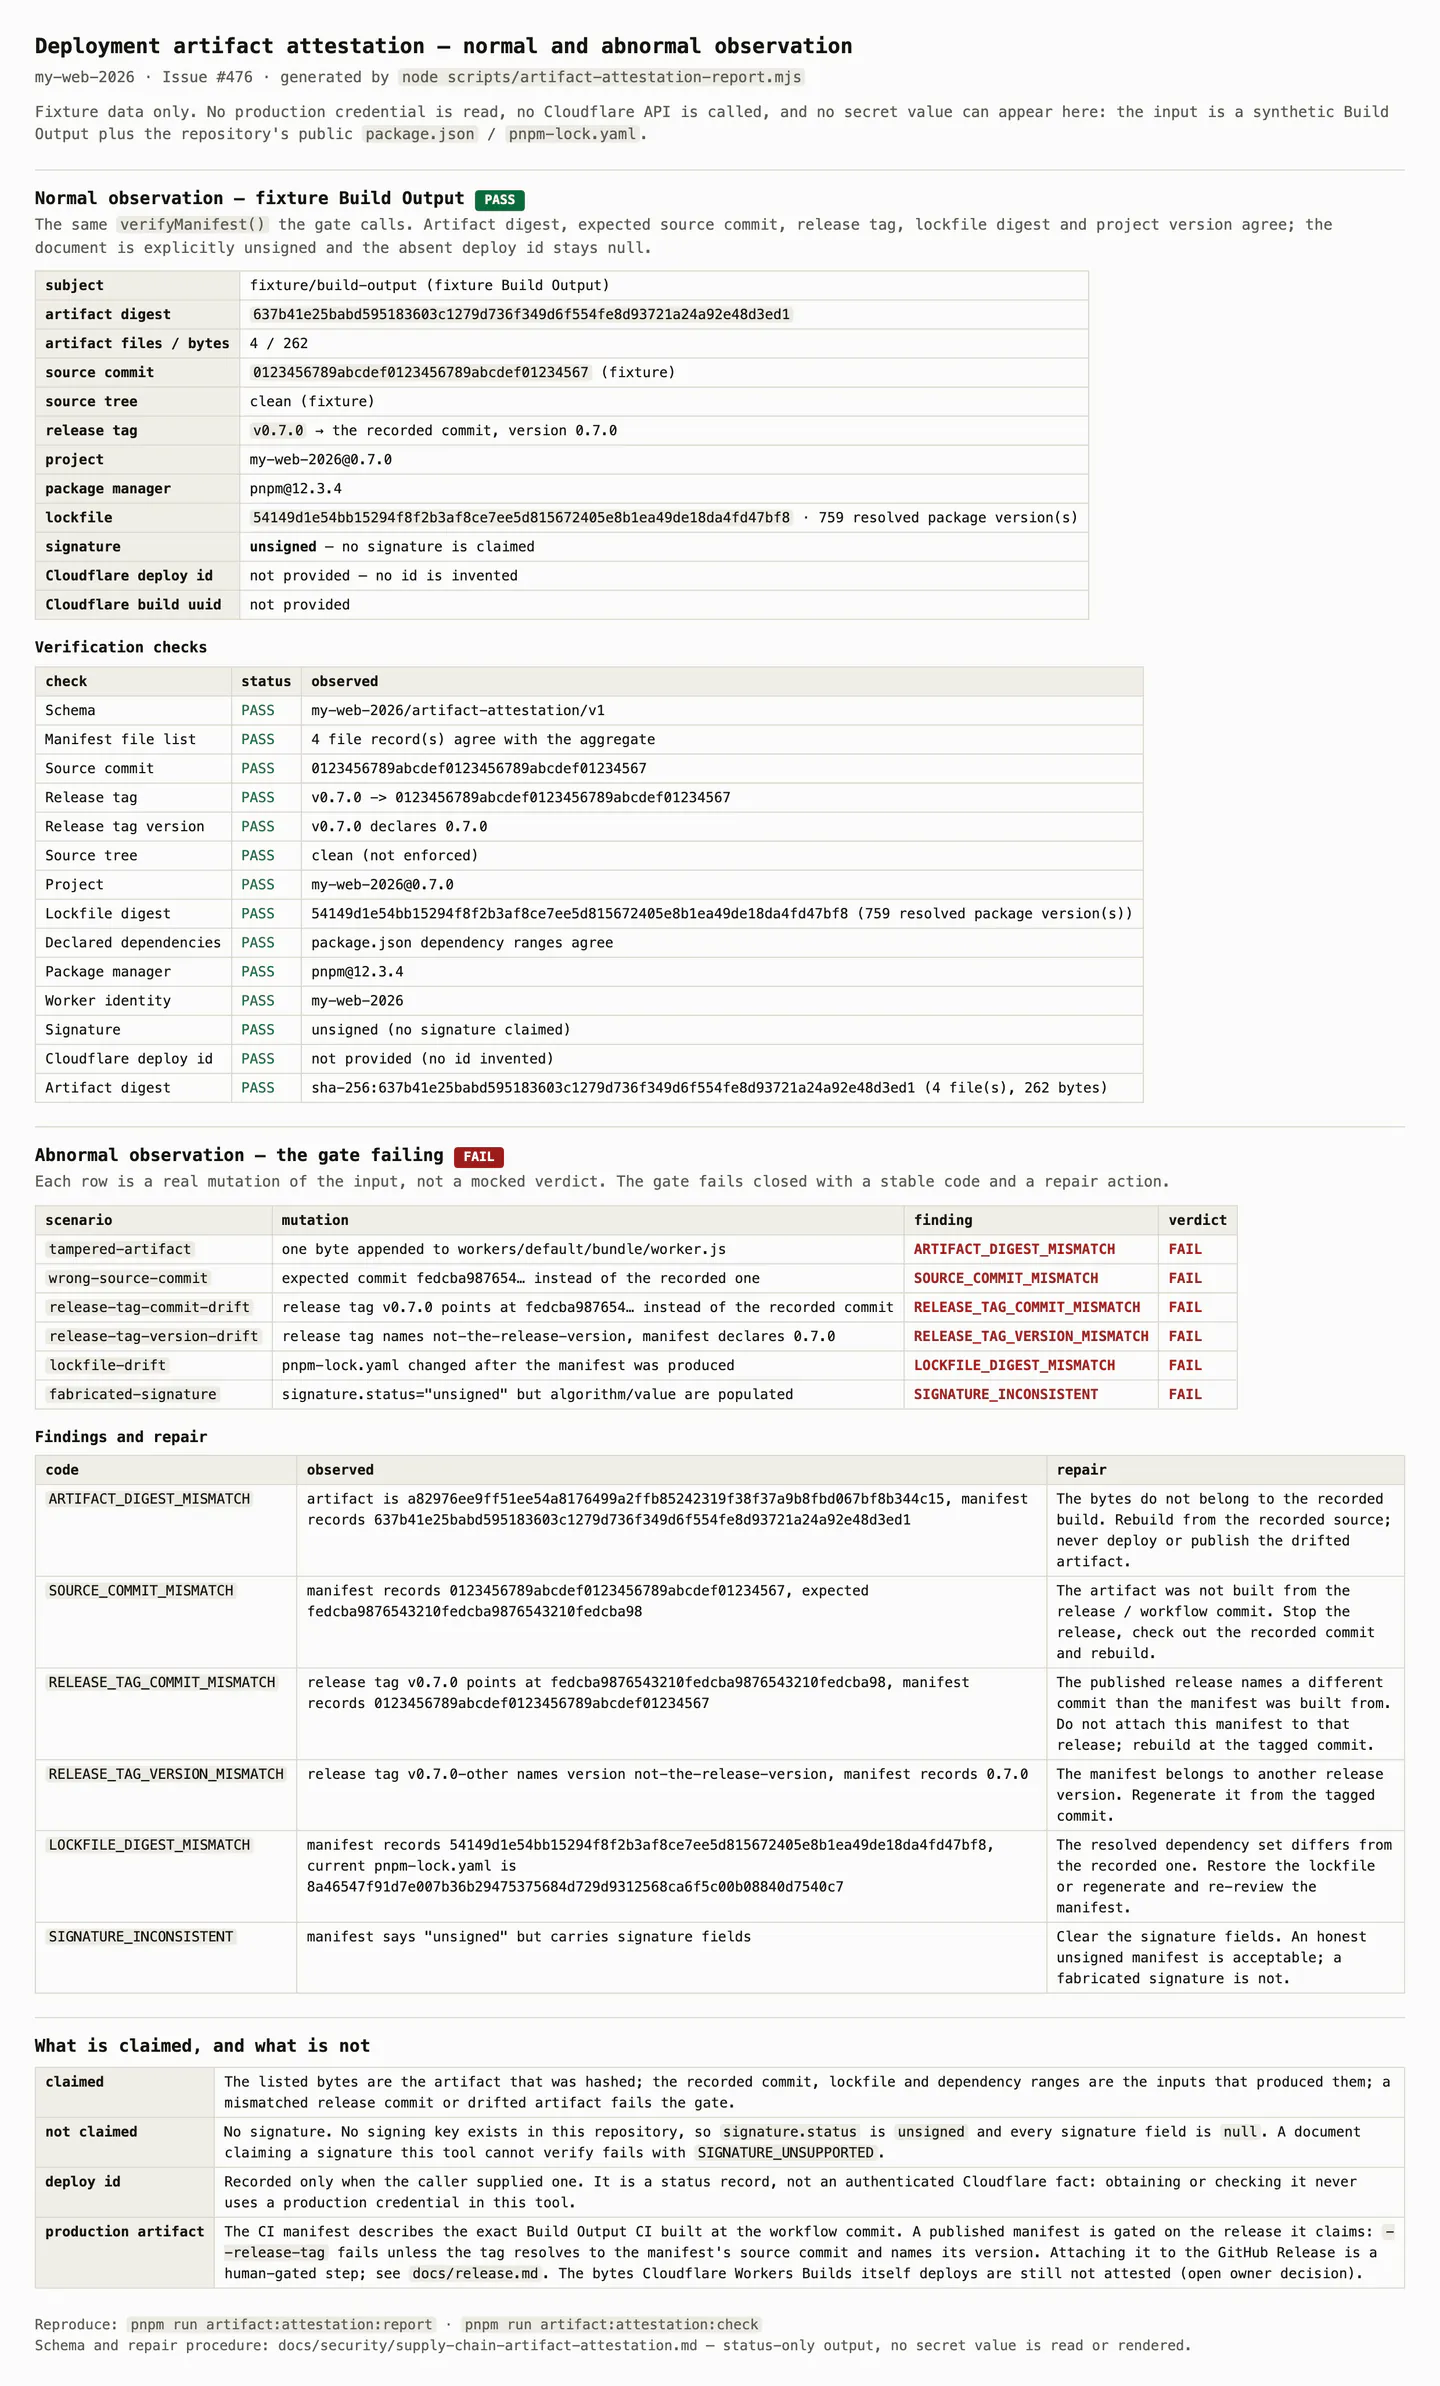
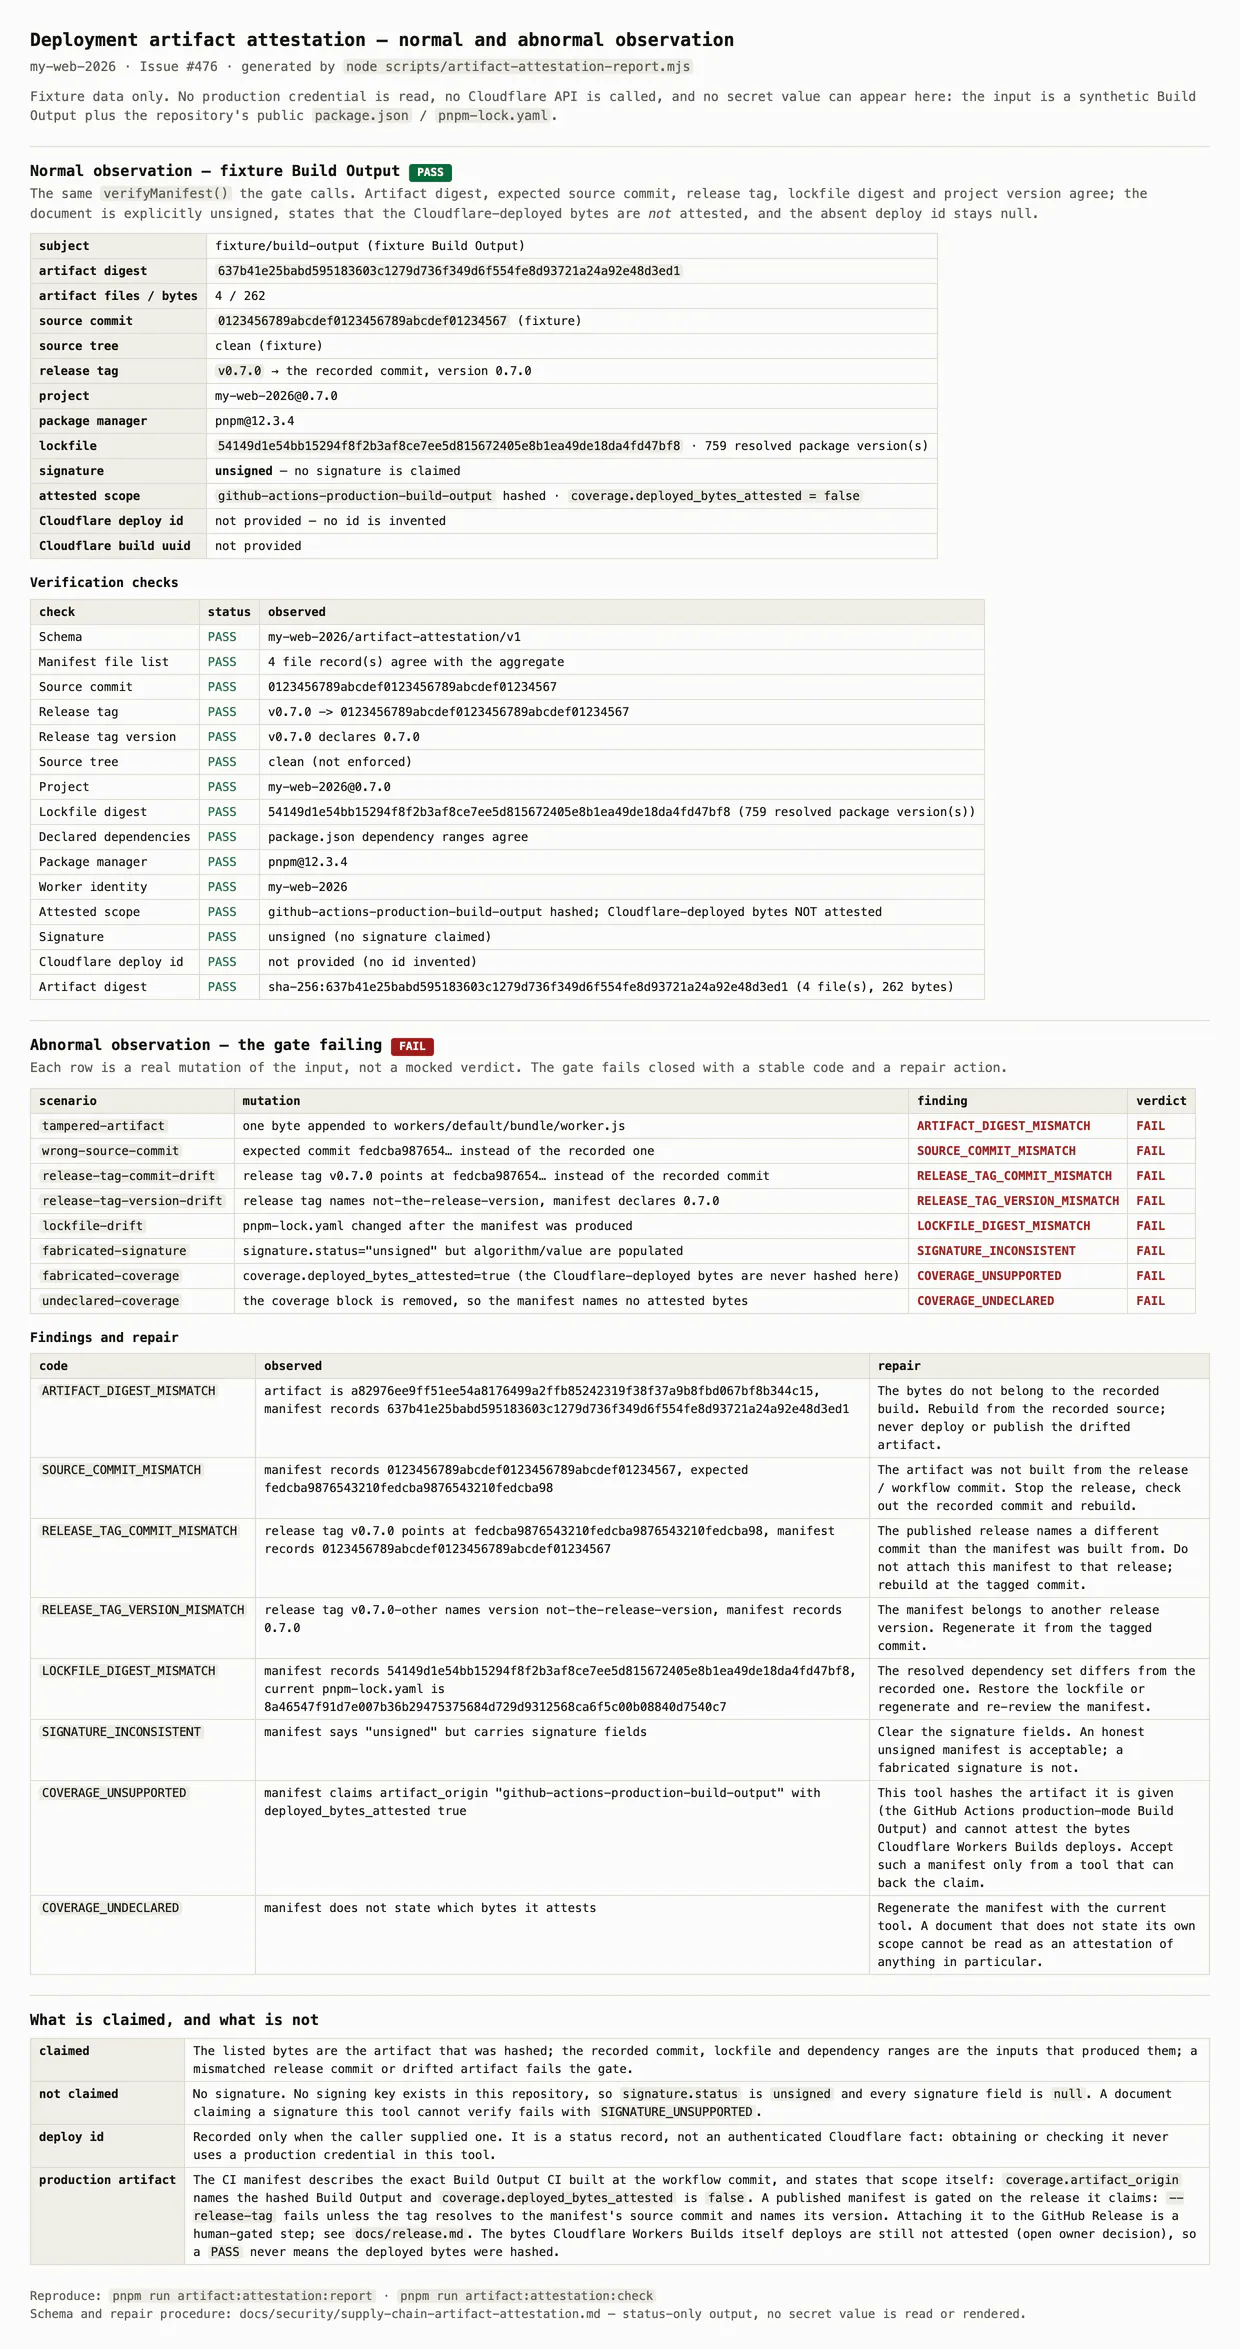
fix(attestation): record the attested byte scope inside the manifest (#476)
The gate attests the artifact it is pointed at — in CI the GitHub
Actions production-mode Build Output — and never the bytes Cloudflare
Workers Builds deploys. That boundary was only in prose, so a PASS line
on a published manifest could still be read as a deployed-byte
attestation.

The manifest now states its own scope:

- coverage.artifact_origin names the hashed Build Output
- coverage.deployed_bytes_attested is false, because this tool hashes
  no deployed bytes

Verification fails closed the same way it does for an unverifiable
signature: a manifest claiming coverage this tool cannot back is
COVERAGE_UNSUPPORTED, one that states no scope is COVERAGE_UNDECLARED.
Both checks print on the CI log, so the boundary is visible on every
run and travels with the document attached to the release.

Generation of those bytes in the Cloudflare build/deploy phase, and
turning the release-tag comparison into an automatic gate, remain the
open owner decision recorded in docs/security/supply-chain-artifact-
attestation.md section 8-3.

Changed region(s): [[0.0306, 0.0, 0.9806, 0.8391], [0.0306, 0.808, 0.95, 0.9945]]

diff --git a/docs/release.md b/docs/release.md
@@ -253,6 +253,12 @@ production domain to be wired (Issue #43 / ADR-0014):
      key exists, so `signature.status` is `unsigned` and every signature
      field is `null`. A document claiming an unverifiable signature
      fails closed.
+   - The manifest states its own attested scope: `coverage.artifact_origin`
+     names the hashed GitHub Actions production-mode Build Output and
+     `coverage.deployed_bytes_attested` is `false`. A manifest claiming
+     coverage this tool cannot back fails closed
+     (`COVERAGE_UNSUPPORTED` / `COVERAGE_UNDECLARED`), so a `PASS`
+     never reads as "the deployed bytes were hashed".
    - A Cloudflare deploy id is recorded only when an operator supplies
      one (`--deploy-id`). It is not fetched with a production credential
      and is not authenticated by this tool.
